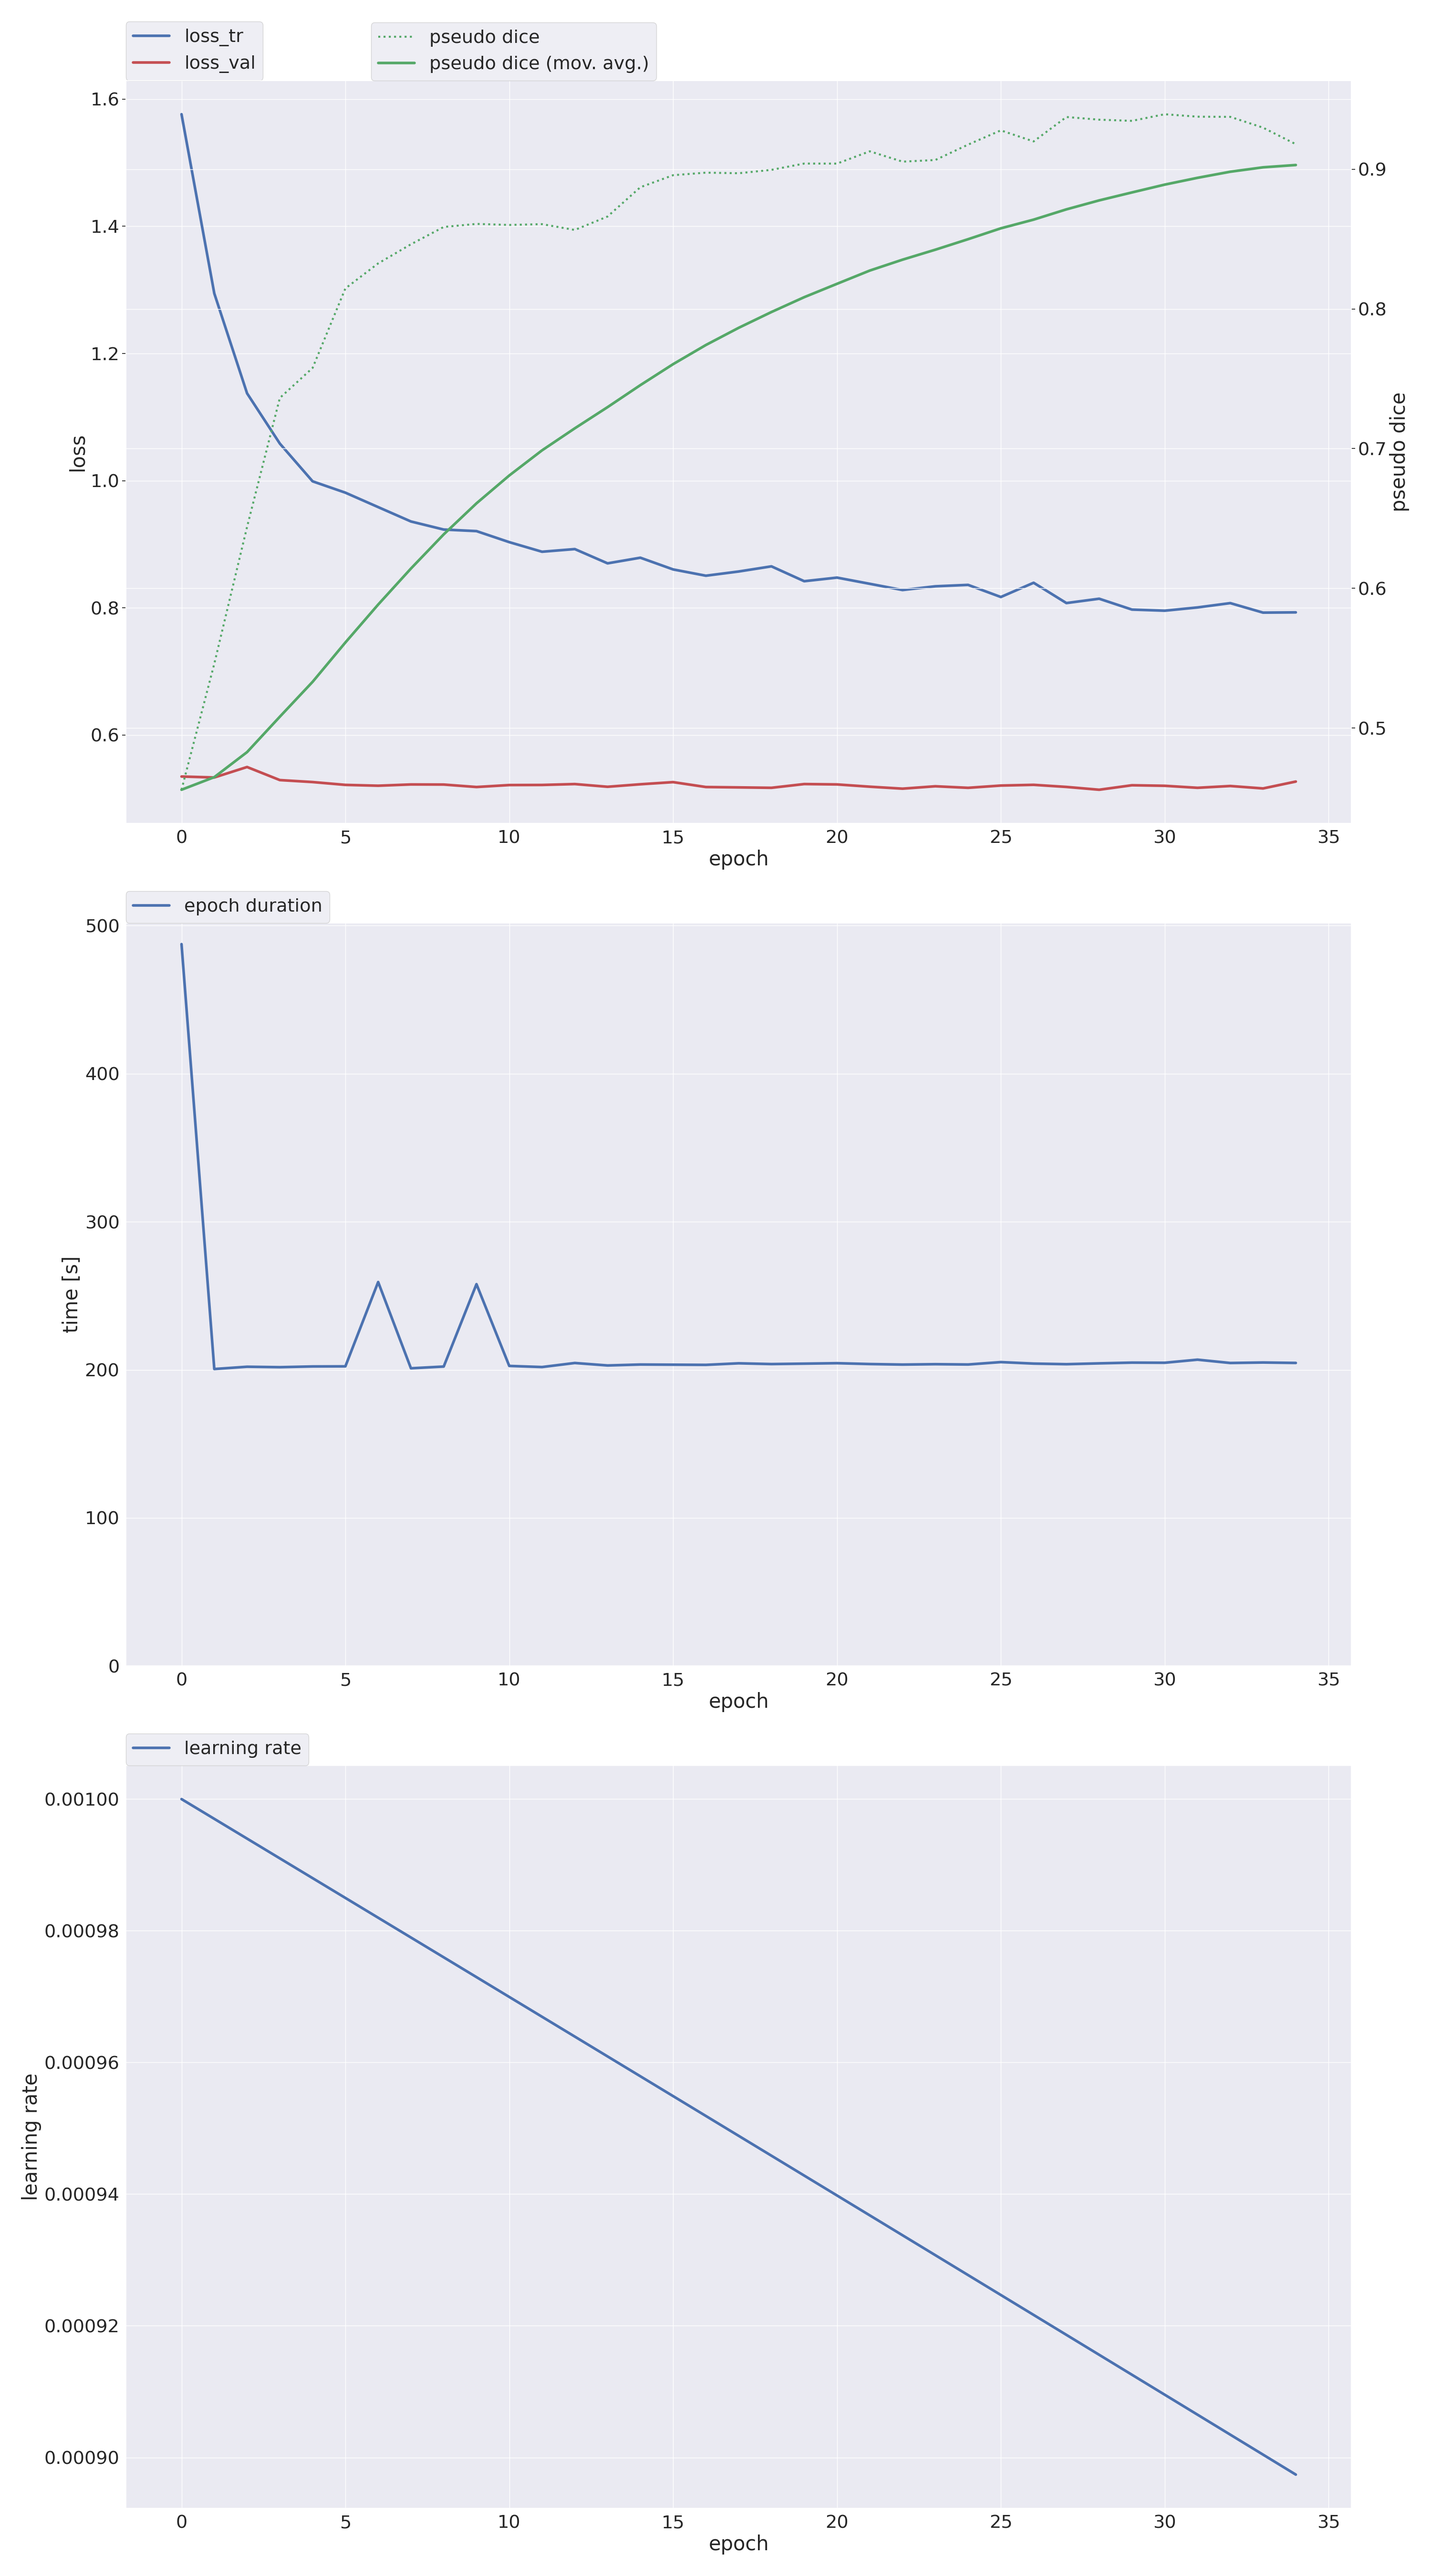
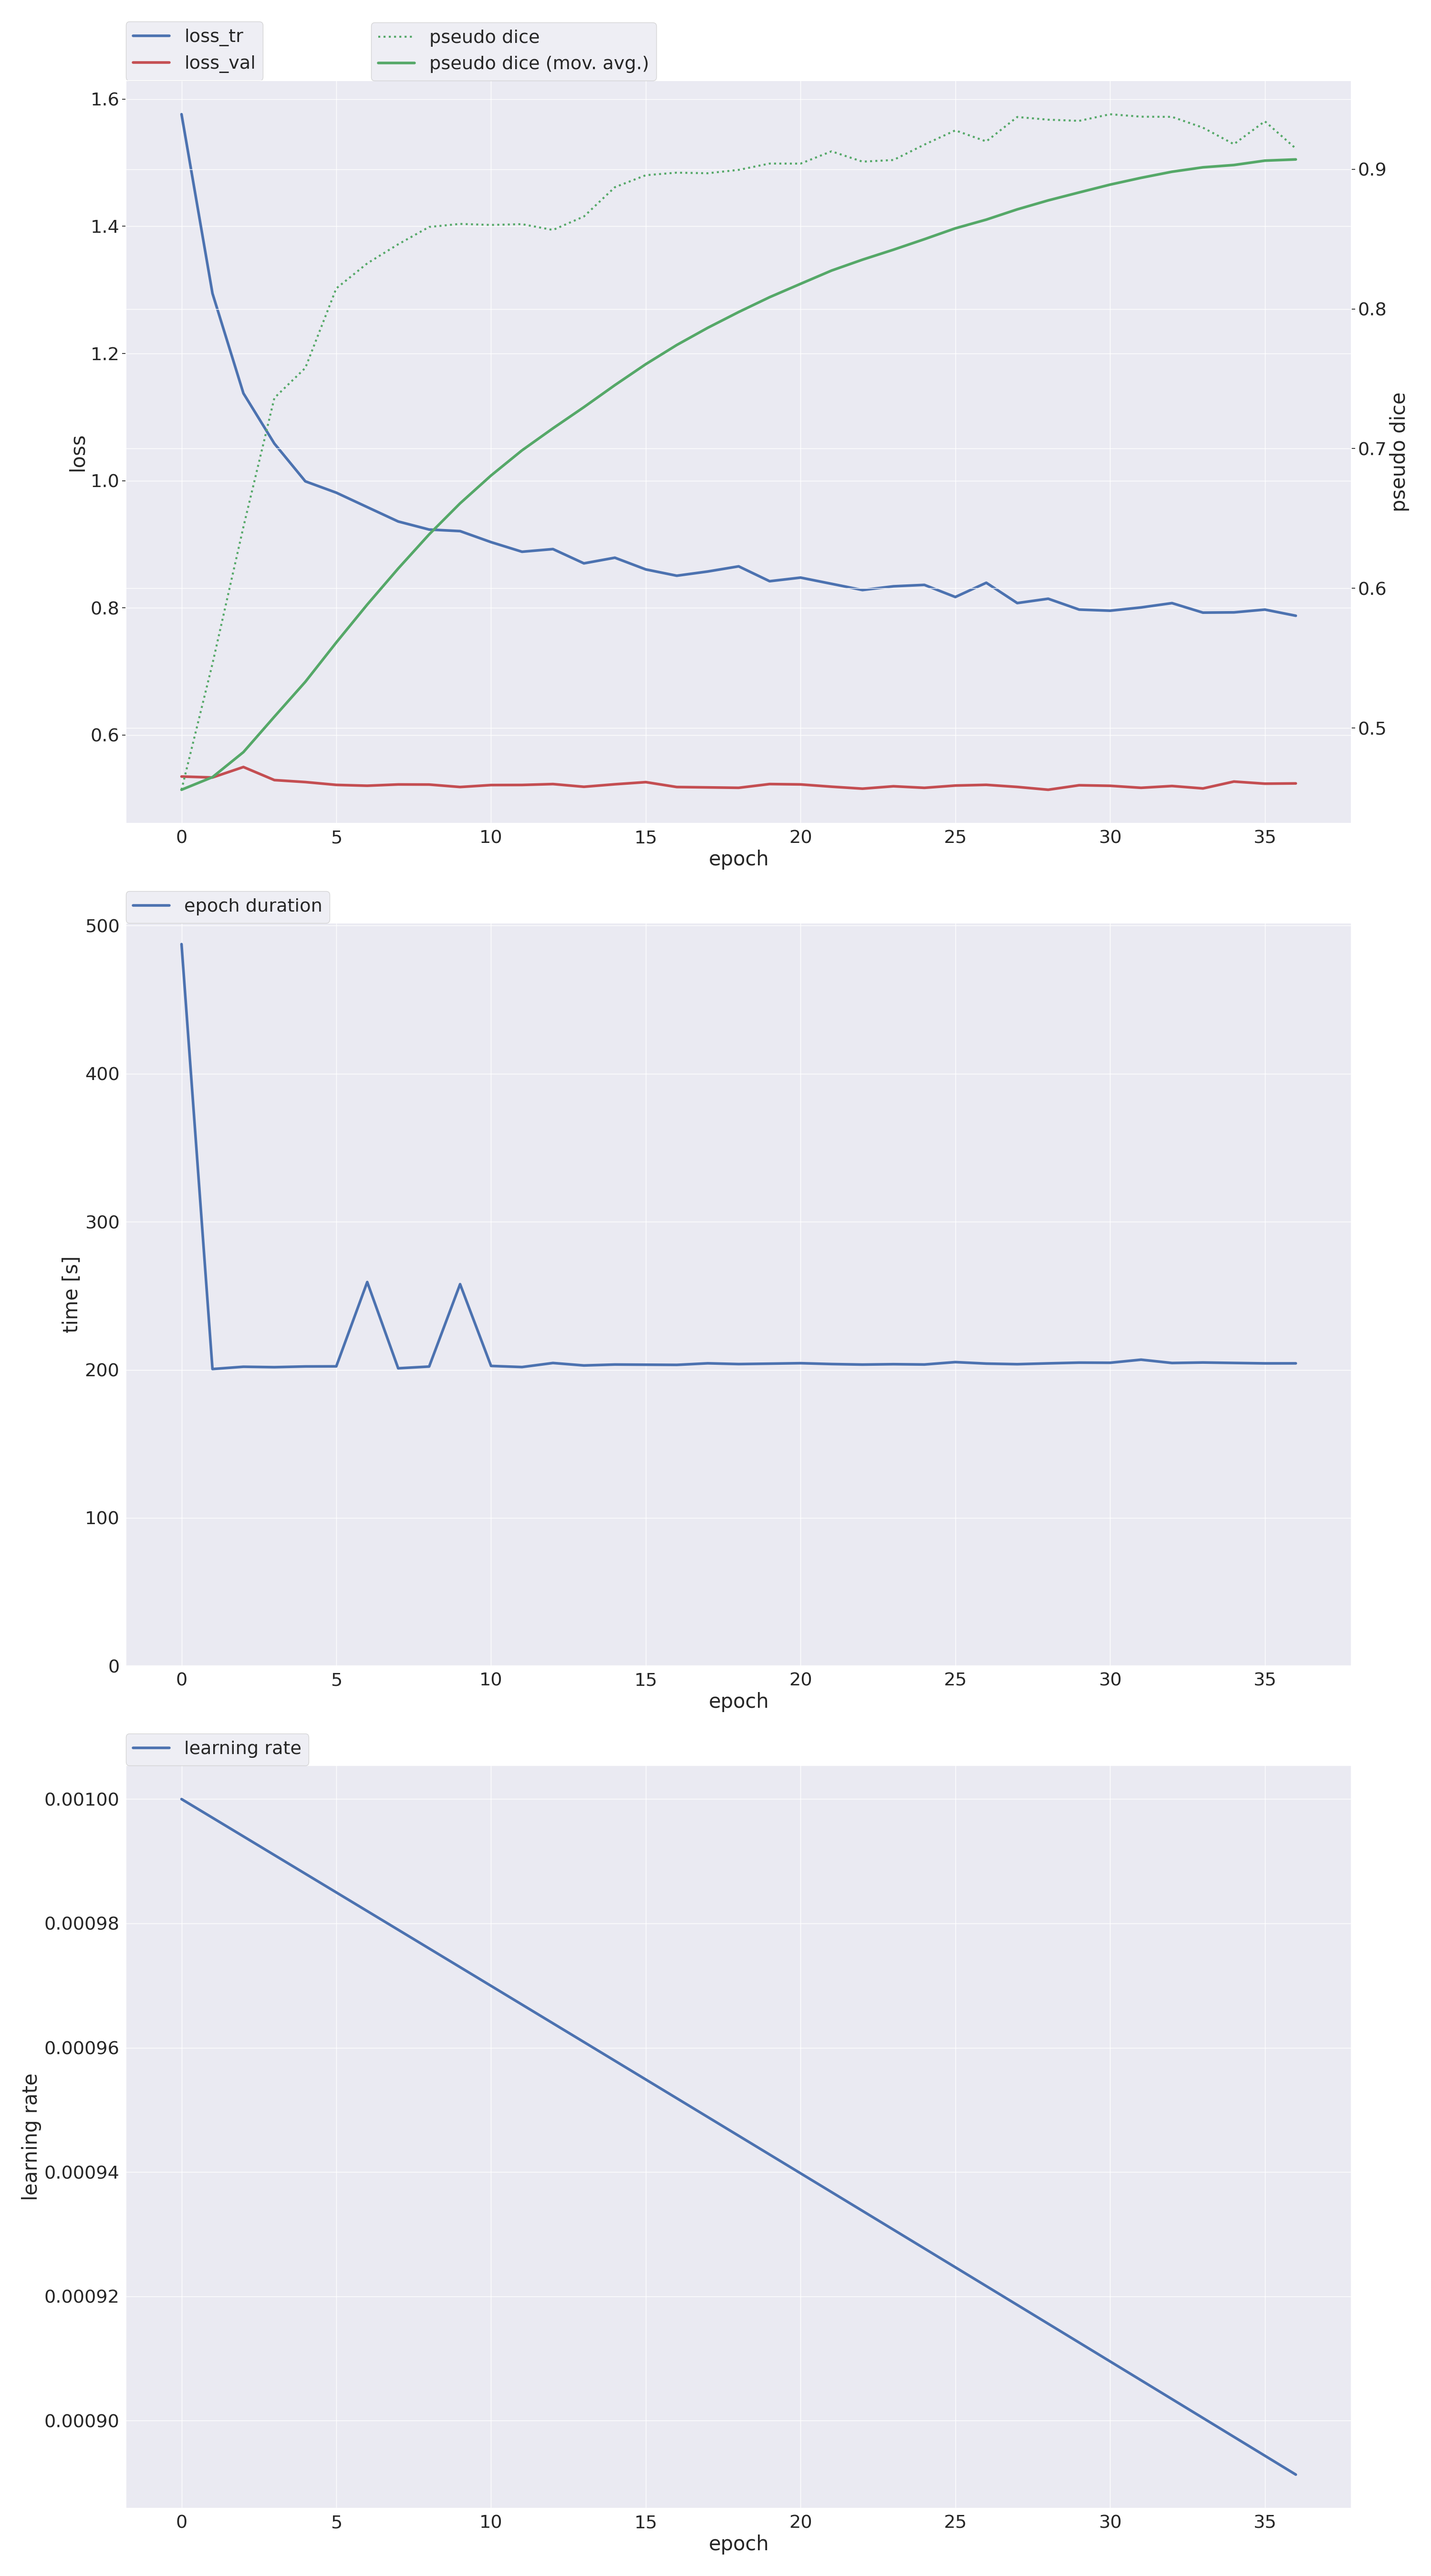
maskssam

diff --git a/nnUNet/nnunetv2/sam/sam_model_2024_amos_smallpatch_finallayercnn_tqreshape_patch512.py b/nnUNet/nnunetv2/sam/sam_model_2024_amos_smallpatch_finallayercnn_tqreshape_patch512.py
@@ -96,7 +96,7 @@ class SAMAdapter_2024_AMOS_SmallPatch_FinalLayerCNN_TQReshape_Patch512(nn.Module
         pool: str = 'conv',
         device: str = 'cuda',
         model_type = "vit_h_adapter_2024_amos_patch512_tqreshape", #""vit_b",
-        checkpoint = "/data/code/MaskSAM/checkpoints/sam_vit_h_4b8939.pth",
+        checkpoint = "/data/rlsam2/MaskSAM/checkpoints/sam_vit_h_4b8939.pth",
         frames: int=8,
         num_queries: int=24
         # checkpoint: str = "/data/xiebin/nnSeries/nnunetv2/nnUNet/nnunetv2/sam/sam_checkpoints/sam_vit_b_01ec64.pth",
